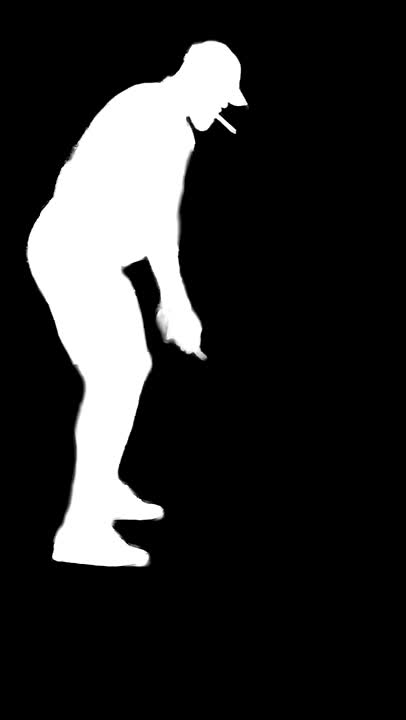
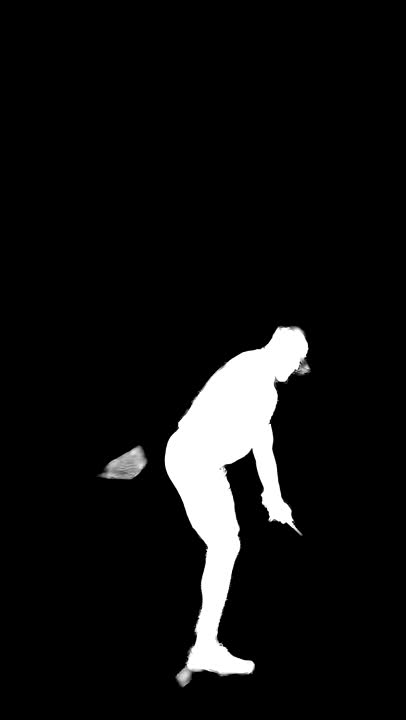
feat: enhance clip processing with speed control and update manifest
This commit introduces a new speed parameter for clip processing, allowing users to override the default bake speed during reprocessing. The pipeline manifest is updated with new video sources and adjusted clip timings for better accuracy. Additionally, several new video clips and images for golfers are added, and existing clips are modified to improve processing and review capabilities.

- Added --speed argument to process.py for clip speed control.
- Updated manifest with new YouTube sources and clip timings.
- Introduced new video and image files for various golfers.
- Adjusted ClipReviewer to include speed in reprocess requests.

Changed region(s): [[0.0591, 0.0306, 0.7685, 0.9778]]

diff --git a/src/app/api/dev/reprocess/route.ts b/src/app/api/dev/reprocess/route.ts
@@ -2,7 +2,7 @@ import { NextResponse } from 'next/server'
 import { execFile } from 'node:child_process'
 import path from 'node:path'
 import { promisify } from 'node:util'
-import { devToolsEnabled, ensurePoolPlayer, manifestEntry, setClipSrc } from '@/lib/devtools'
+import { devToolsEnabled, ensurePoolPlayer, manifestEntry, setClipSpeed, setClipSrc } from '@/lib/devtools'
 
 const execFileAsync = promisify(execFile)
 
@@ -17,8 +17,13 @@ export async function POST(req: Request) {
   if (!devToolsEnabled()) {
     return NextResponse.json({ error: 'dev only' }, { status: 404 })
   }
-  const { id } = await req.json()
+  const { id, speed } = await req.json()
   if (!id) return NextResponse.json({ error: 'id required' }, { status: 400 })
+  // Bake speed is passed straight to the pipeline: a brand-new clip has no
+  // clips.json row yet, so process.py can't look its speed up there (it would
+  // fall back to the 4x default and import way too fast). Persisted below once
+  // the row exists so later window-only reprocesses keep it.
+  const bakeSpeed = Number.isFinite(Number(speed)) && Number(speed) > 0 ? Number(speed) : undefined
 
   // Reprocessing means "make this clip playable", so require (and, if benched,
   // promote) a pool player before spending minutes on download + matting.
@@ -33,7 +38,8 @@ export async function POST(req: Request) {
   try {
     const { stdout, stderr } = await execFileAsync(
       python,
-      ['process.py', '--only', id, '--force'],
+      ['process.py', '--only', id, '--force',
+        ...(bakeSpeed !== undefined ? ['--speed', String(bakeSpeed)] : [])],
       { cwd: pipeline, timeout: 5 * 60 * 1000 },
     )
     const log = (stdout + stderr).trim()
@@ -44,6 +50,9 @@ export async function POST(req: Request) {
     // but the fresh webm sits on disk for review; unflagged clips go live.
     const flagged = !!manifestEntry(id)?.flagged
     const src = setClipSrc(id, !flagged)
+    // Persist the speed now that the clips.json row exists, so a later
+    // window-only reprocess (no --speed) still bakes at the same rate.
+    if (bakeSpeed !== undefined) setClipSpeed(id, bakeSpeed)
     return NextResponse.json({
       ok: true,
       src,

diff --git a/src/app/dev/ClipReviewer.tsx b/src/app/dev/ClipReviewer.tsx
@@ -216,7 +216,7 @@ function ClipCard({ clip, bust, onChanged, onReprocessed }: {
       const res = await fetch('/api/dev/reprocess', {
         method: 'POST',
         headers: { 'Content-Type': 'application/json' },
-        body: JSON.stringify({ id: clip.id }),
+        body: JSON.stringify({ id: clip.id, speed: Number(speed) || 4 }),
       })
       const data = await res.json()
       if (!data.ok) {

diff --git a/pipeline/process.py b/pipeline/process.py
@@ -187,6 +187,10 @@ def main() -> int:
     ap.add_argument("--dry-run", action="store_true")
     ap.add_argument("--include-flagged", action="store_true",
                     help="also process flagged (unreviewed) clips; they stay flagged")
+    ap.add_argument("--speed", type=float,
+                    help="override the bake speed for clips processed this run "
+                         "(else the clips.json speed, else 4.0); used by /dev for a "
+                         "new clip whose clips.json row doesn't exist yet")
     args = ap.parse_args()
 
     entries = load_manifest_entries()
@@ -228,7 +232,8 @@ def main() -> int:
             raw = download(entry)
             trimmed = trim(entry, raw)
             pha = matte(entry, trimmed)
-            silhouette(entry, pha, speeds.get(entry["id"], 4.0))
+            speed = args.speed if args.speed is not None else speeds.get(entry["id"], 4.0)
+            silhouette(entry, pha, speed)
             done += 1
         except subprocess.CalledProcessError as e:
             tail = (e.stderr or b"").decode(errors="replace").strip().splitlines()[-3:]